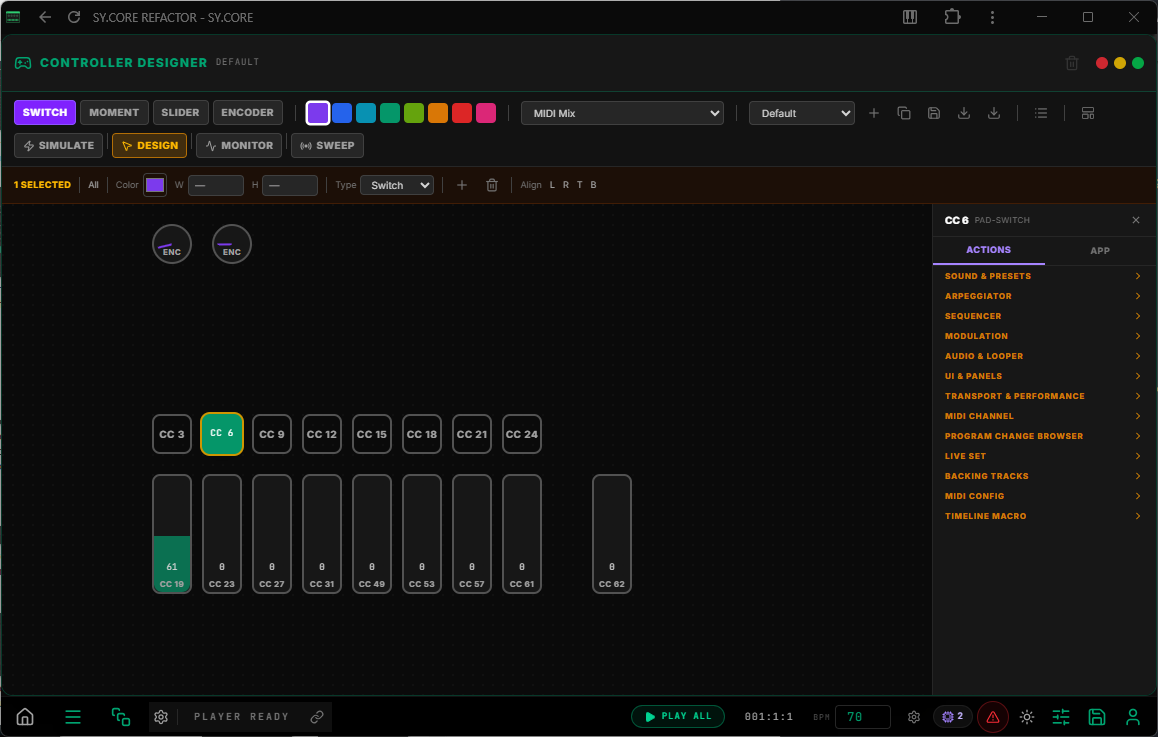
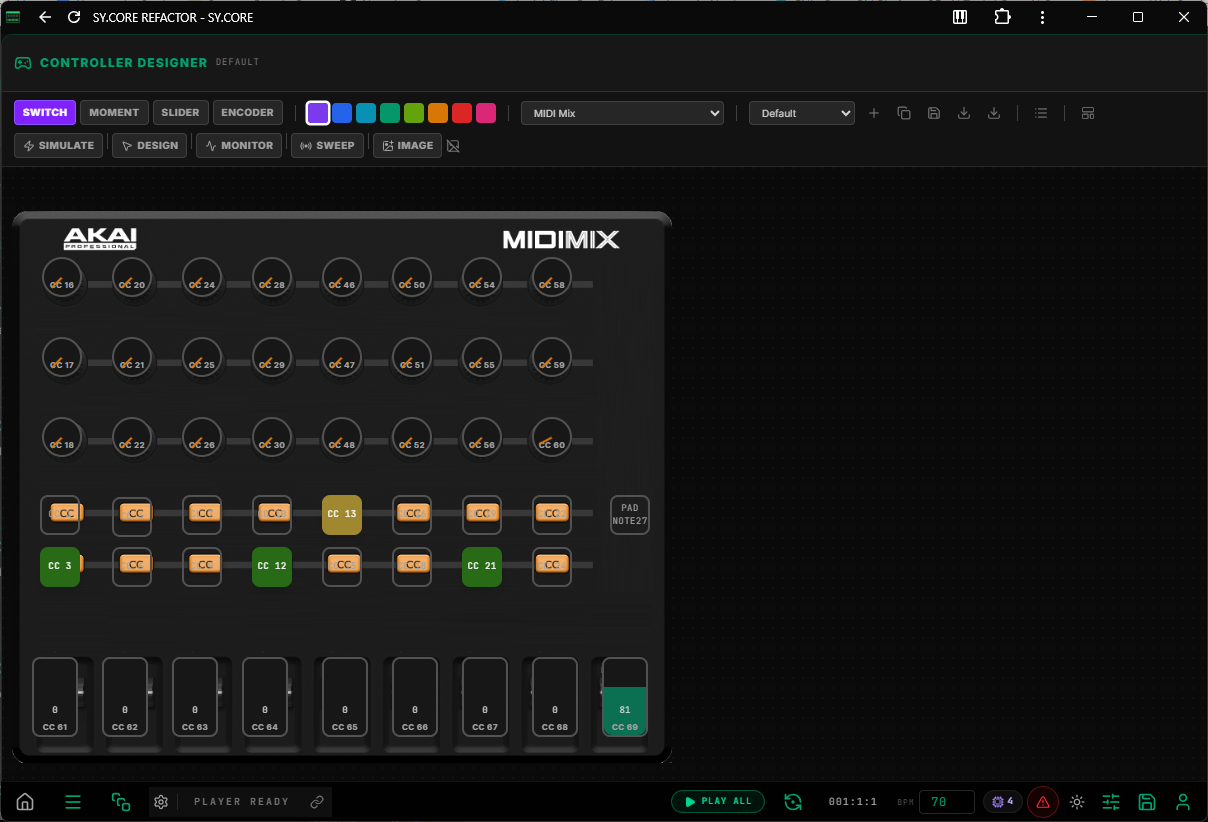
Website update

diff --git a/src/views/WebsiteView.vue b/src/views/WebsiteView.vue
@@ -137,11 +137,11 @@ const liveTools = [
     text: 'A visual arrangement timeline for live performance. Sequence backing-track segments, fire MIDI and UI events at exact time positions with markers, and drive MIDI transport sync independently of the player.',
   },
   {
-    icon: Repeat,
-    title: 'Samples Machine',
-    tag: 'Loops',
-    img: '/help/guides/sycore-loop-machine.png',
-    text: '24 pads of simultaneous, gapless loops — fed from local files or Freesound. Sync-quantized starts locked to a master loop, automatic global BPM retune, an always-on 24-channel mixer, one-touch Performance Sets, and auto-recording of your jam via Audio Capture. Every pad, fader and toggle is MIDI-learnable.',
+    icon: Drum,
+    title: 'Drum Machine',
+    tag: 'Rhythm',
+    img: '/help/guides/sycore-drum-machine.png',
+    text: 'An 8-track step sequencer with style-based generation (House, Techno, Jazz, EDM, Pop and more), per-step velocity and accent, fill mode, autofill scheduling, 8-slot pattern chain with BPM-synced sequential playback, and full preset save/load with per-preset tempo.',
   },
   {
     icon: ListMusic,
@@ -151,13 +151,6 @@ const liveTools = [
     text: 'The dedicated show-mode control center: 16 Soundset pads for one-touch multi-device preset recall, 16 backing-track pads, 16 loop pads, and a per-device MIDI CC volume mixer. Every pad and fader is mappable to your hardware controller. Save layouts as Snapshots.',
   },
   {
-    icon: Music,
-    title: 'Step Sequencer',
-    tag: 'Algorithmic',
-    img: '/help/guides/sycore-step-sequencer.png',
-    text: 'Style-based generation — House, Techno, Acid, Minimal, Drum&Bass, Funk, Ambient and more — locked to key and scale. Up to 64 steps, native polyphony, per-step parameter locks (2 CCs), gate and tie control.',
-  },
-  {
     icon: Layers,
     title: 'Chord Progression Sequencer',
     tag: 'Harmony',
@@ -165,19 +158,33 @@ const liveTools = [
     text: 'Up to 16 steps, each carrying a full chord — or an arpeggio. Per-step duration, velocity, gate and transpose, plus a built-in progression library organised by key and genre, and algorithmic generation.',
   },
   {
+    icon: Music,
+    title: 'Step Sequencer',
+    tag: 'Algorithmic',
+    img: '/help/guides/sycore-step-sequencer.png',
+    text: 'Style-based generation — House, Techno, Acid, Minimal, Drum&Bass, Funk, Ambient and more — locked to key and scale. Up to 64 steps, native polyphony, per-step parameter locks (2 CCs), gate and tie control.',
+  },
+  {
+    icon: Cpu,
+    title: 'Sampler',
+    tag: 'Beta',
+    img: '/help/guides/sycore-sampler.png',
+    text: '8-pad, multi-bank sample player with MIDI velocity, chromatic pitch-shifting, polyphonic voice management, per-pad ADSR envelopes, lo-fi downsampling, dual granular synthesis (pads 7 & 8), and full MIDI input filtering and mapping.',
+  },
+  {
+    icon: Repeat,
+    title: 'Samples Machine',
+    tag: 'Loops',
+    img: '/help/guides/sycore-loop-machine.png',
+    text: '24 pads of simultaneous, gapless loops — fed from local files or Freesound. Sync-quantized starts locked to a master loop, automatic global BPM retune, an always-on 24-channel mixer, one-touch Performance Sets, and auto-recording of your jam via Audio Capture. Every pad, fader and toggle is MIDI-learnable.',
+  },
+  {
     icon: InfinityIcon,
     title: 'Audio Looper',
     tag: 'Beta',
     img: '/help/guides/sycore-looper.png',
     text: 'A sample-accurate 8-track looper with BPM-aligned recording, MIDI-triggered hands-free capture, autosync, autolimiting, a touch-optimized mixer, and one-tap rendering into your playlist.',
-  },
-  {
-    icon: Drum,
-    title: 'Drum Machine',
-    tag: 'Rhythm',
-    img: '/help/guides/sycore-drum-machine.png',
-    text: 'An 8-track step sequencer with style-based generation (House, Techno, Jazz, EDM, Pop and more), per-step velocity and accent, fill mode, autofill scheduling, 8-slot pattern chain with BPM-synced sequential playback, and full preset save/load with per-preset tempo.',
-  },
+  }
 ]
 
 const audioCaptureFeatures = [
@@ -358,14 +365,14 @@ const audiences = [
             {{ badge }}
           </span>
         </div>
-        <!-- <div class="hero-fade hero-fade-6 mt-14">
+        <div class="hero-fade hero-fade-6 mt-14">
           <img
-            src="/help/guides/landing.png"
+            src="/help/guides/sycore-refactor-mainpage.png"
             alt="SY.CORE workspace"
             class="img-float mx-auto w-full max-w-4xl rounded-xl border border-neutral-800 shadow-[0_0_60px_rgba(0,163,112,0.15)]"
             loading="eager"
           />
-        </div> -->
+        </div>
       </div>
     </section>
 
@@ -507,21 +514,26 @@ const audiences = [
         </div>
       </div>
       <div class="mt-10 grid gap-6 md:grid-cols-2">
-        <img
-          v-reveal="150"
-          src="/help/guides/sycore-midi-devices.png"
-          alt="MIDI Manager"
-          class="img-zoom w-full rounded-xl border border-neutral-800"
-          loading="lazy"
-        />
         <div class="flex flex-col">
+          <span class="py-2 font-mono text-sm font-black uppercase tracking-widest text-synth-neon">AUTO-DISCOVERY</span>
+          <img
+            v-reveal="150"
+            src="/help/guides/sycore-midi-devices.png"
+            alt="MIDI Manager"
+            class="img-zoom w-full rounded-xl border border-neutral-800"
+            loading="lazy"
+          />
+        </div>
+        <div class="flex flex-col">
+          <!-- <span class="py-2 font-mono text-sm font-black uppercase tracking-widest text-synth-neon">CONTROLLER DESIGNER</span>
           <img
             v-reveal="150"
             src="/help/guides/sycore-midi-controller-designer.png"
             alt="MIDI Controller Designer"
             class="img-zoom w-full rounded-xl border border-neutral-800"
             loading="lazy"
-          />
+          /> -->
+          <span class="py-2 font-mono text-sm font-black uppercase tracking-widest text-synth-neon">MIDI MONITOR</span>
           <img
           v-reveal="150"
           src="/help/guides/sycore-midi-monitor.png"
@@ -543,6 +555,13 @@ const audiences = [
             Bundle device presets into <strong class="text-neutral-200">Performance Sets</strong> and load your
             entire multi-device configuration in a single click.
           </p>
+          <img
+          v-reveal="150"
+          src="/help/guides/sycore-multi-sound-program-change.png"
+          alt="MIDI Monitor"
+          class="mt-2 img-zoom w-full rounded-xl border border-neutral-800"
+          loading="lazy"
+        />
         </div>
         <div v-reveal="150" class="card-lift rounded-xl border border-neutral-800 bg-neutral-900/40 p-6">
           <Cpu class="h-6 w-6 text-synth-neon" />
@@ -552,6 +571,13 @@ const audiences = [
             toggle the looper, change a preset. Supports continuous (0–127) and trigger (push) control —
             your pedalboard becomes the front panel of the whole platform.
           </p>
+           <img
+            v-reveal="150"
+            src="/help/guides/sycore-midi-controller-designer.png"
+            alt="MIDI Controller Designer"
+            class="mt-2 img-zoom w-full rounded-xl border border-neutral-800"
+            loading="lazy"
+          />
         </div>
       </div>
     </section>
